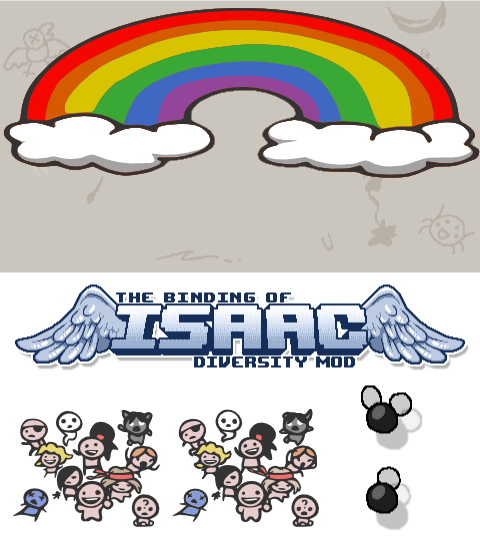
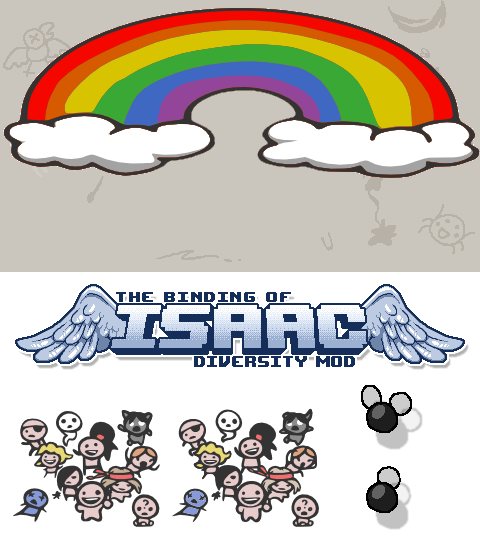
title graphic de-blur
fixed blurry title graphic

diff --git a/README.md b/README.md
@@ -47,6 +47,9 @@ The Diversity Mod program won't work if it is inside your Rebirth resources fold
 
 Change log:
 
+version 0.7
+- fixed title graphic to not be blurry
+
 version 0.6
 - updated title graphics and character select graphics
 - implemented file browser for user to define Rebirth resources folder when it is not automatically found
